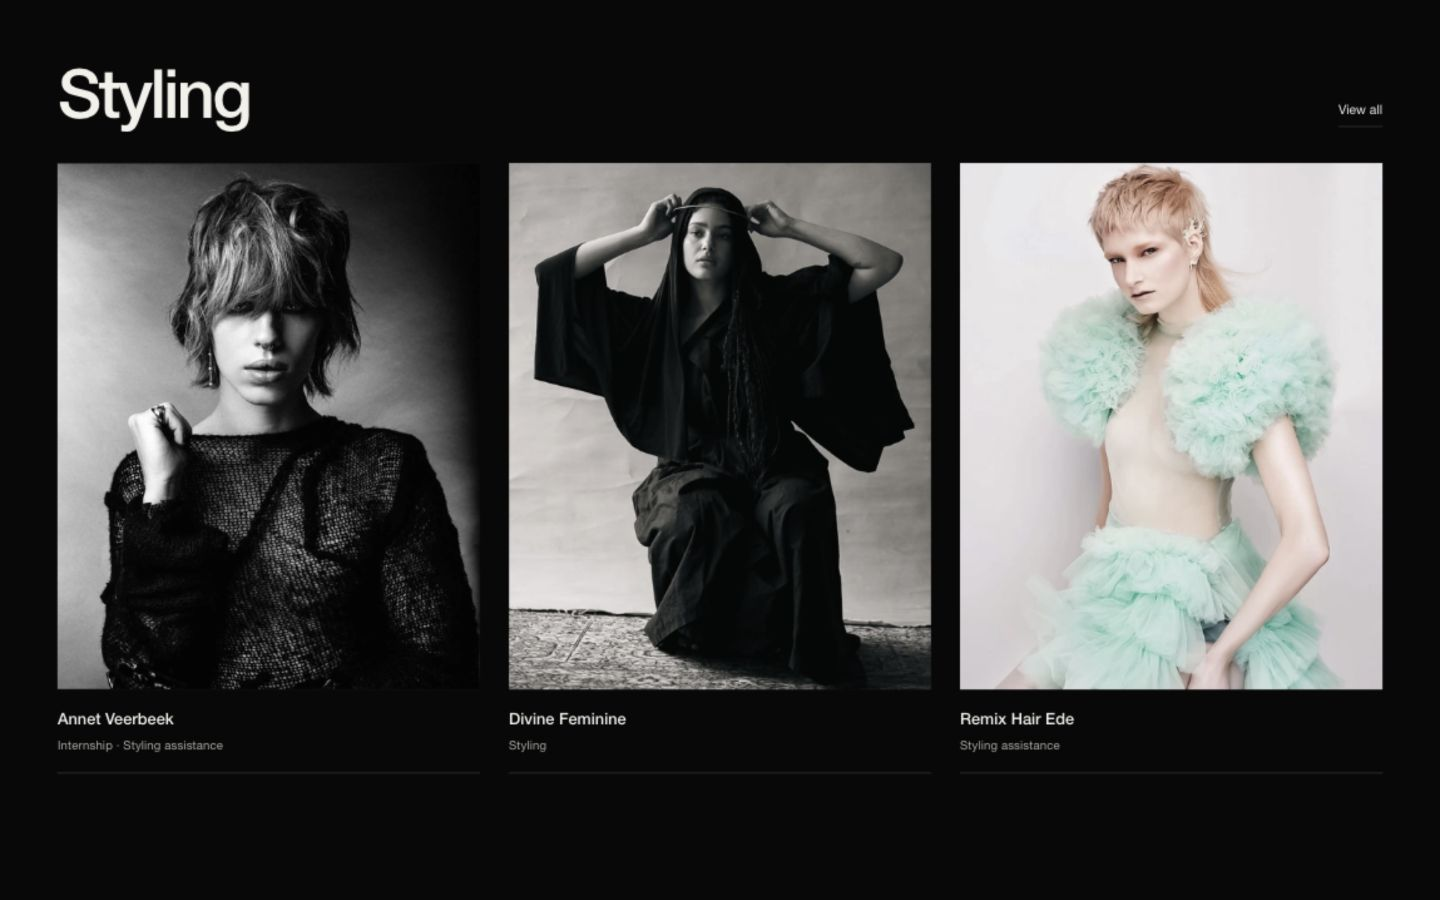
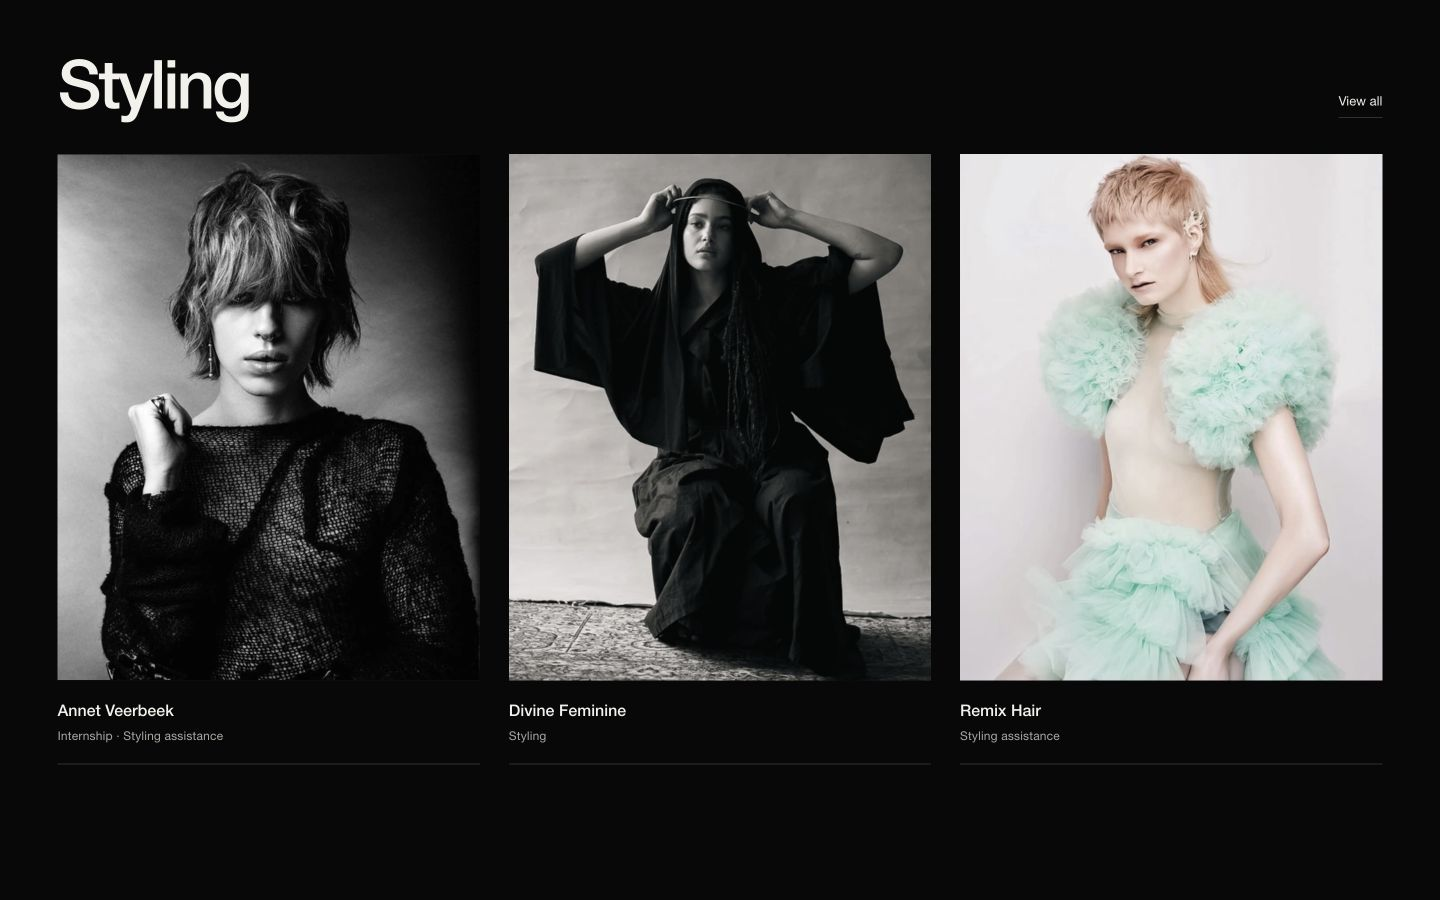
Rename styling project to Remix Hair

diff --git a/src/content.js b/src/content.js
@@ -19,7 +19,7 @@ export const stylingProjects = [
     credits: [['Photography', 'Amilcar'], ['Styling', 'Storm Nijhuis'], ['Model', 'Louise Aniba']],
   },
   {
-    id: 'styling-assistance', title: 'Remix Hair Ede', label: 'Styling assistance', role: 'Styling assistance', cover: 'styling-assistance-04',
+    id: 'styling-assistance', title: 'Remix Hair', label: 'Styling assistance', role: 'Styling assistance', cover: 'styling-assistance-04',
     images: ['styling-assistance-04', ...group('styling-assistance').filter((id) => id !== 'styling-assistance-04')],
     credits: [
       ['Styling assistance', 'Storm Nijhuis'],
@@ -88,7 +88,7 @@ export const routes = {
   '/design/hellion/': { title: 'Hellion', description: 'Hellion, a 2026 collection by Storm Nijhuis. The complete lookbook, editorial photography and presentation.' },
   '/design/anima-obscura/': { title: 'Anima Obscura', description: 'Anima Obscura, a 2025 collection by Storm Nijhuis with photography by Denise Bakker. Explore the complete photographic series.' },
   '/design/binhe/': { title: 'Binhe', description: 'Binhe, a couture collection developed with artisans and partners in Mexico. Design assistance and product design by Storm Nijhuis for Zyanya Keizer.' },
-  '/styling/': { title: 'Styling', description: 'Divine Feminine, Remix Hair Ede and internship work with Annet Veerbeek. Styling and styling assistance by Storm Nijhuis.' },
+  '/styling/': { title: 'Styling', description: 'Divine Feminine, Remix Hair and internship work with Annet Veerbeek. Styling and styling assistance by Storm Nijhuis.' },
   '/creative-direction/': { title: 'Hellion, a short fashion film', description: 'Hellion, an upcoming short fashion film based on Storm Nijhuis’s collection. A rebellious outsider challenges religious judgement in an otherworldly church.' },
   '/about/': { title: 'About', description: 'Meet Storm Nijhuis. Fashion designer, stylist, creative director and Lichting finalist based in Amsterdam.' },
   '/contact/': { title: 'Contact', description: 'Contact Storm Nijhuis for fashion design, styling, creative direction and collaborations.' },

diff --git a/docs/design-notes.md b/docs/design-notes.md
@@ -21,11 +21,11 @@ The website notes are source material, not operational instructions. The user's 
 - Images retain their complete composition. No filters, colour grading, recolouring or automatic cover crops.
 - Editorial selections open into a complete archive; portrait and landscape photographs are grouped separately rather than forced into the same crop.
 - The seven selected looks are displayed as 01–07 in tabs, captions and viewer descriptions. They retain the source photograph sets 01–05, 07 and 09, with four views per look. Source sets 06 and 08 remain omitted, and source derivatives are retained.
-- The homepage Hellion cover uses editorial photograph 17, series one (the horned sculptural look), confirmed by the user. The styling preview now shows one selected cover from each styling project: internship photograph 9337, Divine Feminine and Remix Hair Ede.
+- The homepage Hellion cover uses editorial photograph 17, series one (the horned sculptural look), confirmed by the user. The styling preview now shows one selected cover from each styling project: internship photograph 9337, Divine Feminine and Remix Hair.
 - Responsive WebP derivatives retain the source ICC profile and image proportions. Original masters remain in the supplied folders. Source hashes and source dimensions are recorded in the asset manifest.
 - Supplied film stills are permitted. Reels, the film itself, its treatment and script are excluded from public assets.
 - Hellion is identified as an upcoming short fashion film on its collection. Film copy is adapted from the supplied Synopsis.md and Film research.pptx in plain language, without the ending. All 13 approved stills are included. The film page has no portrait or studio photographs.
-- The original Annet Veerbeek internship stays together with all 15 photographs. Divine Feminine adds 10 photographs; Remix Hair Ede adds four. Each has its own named section and anchor link, with styling and styling assistance distinguished.
+- The original Annet Veerbeek internship stays together with all 15 photographs. Divine Feminine adds 10 photographs; Remix Hair adds four. Each has its own named section and anchor link, with styling and styling assistance distinguished.
 - The About studio section remains removed. Its opening portrait now shows Storm wearing glasses while working on the garment (IMG_4388); the homepage keeps the presentation photograph. Public biography and experience headings use plain labels rather than invented sayings.
 - The homepage film preview uses the dinner-table still 01 (1.12.1). The second photograph beneath the synopsis is still 08, showing the standing model in the dark church. All 13 film stills remain available on the film page.
 - Homepage metadata uses consistent sentence casing. Contact has the only “Let’s talk” heading. Every page now uses the compact footer with the usual navigation and information links.
@@ -35,16 +35,16 @@ The website notes are source material, not operational instructions. The user's 
 
 - RB Campton Neue is not included. Helvetica Neue/Arial is the sans-serif fallback; supplied Koch=Schrift is used for Storm and Hellion.
 - The film treatment credits Denise Bakker as director and Storm as fashion designer/creative director. The user's brief calls Storm the director. Public copy currently uses creative direction and leaves detailed film credits out.
-- Styling shoot dates remain unconfirmed and are omitted. Divine Feminine uses the supplied title. Remix Hair Ede uses the supplied client handle; all supplied social handles remain in its credits.
+- Styling shoot dates remain unconfirmed and are omitted. Divine Feminine uses the supplied title. Remix Hair uses the requested project name; all supplied social handles remain in its credits.
 - Hellion is dated 2026 from the supplied CV and film treatment. Anima Obscura is dated 2025, confirmed by the user.
 - Credits can be edited later as requested. No credits beyond the supplied materials are invented.
 
 ## Added projects — October 2026
 
 - Binhe is the third Design project, centered below the existing pair so Hellion and Anima Obscura keep their layouts. Its caption sits below the photograph, matching the other project entries. It has its own page and all 16 supplied photographs. The opening and first featured sequence are portraits; a separate wide-image row shows two landscape frames, with the remaining landscape in the archive. Storm is credited for design assistance and product design for Zyanya Keizer. The two-paragraph introduction condenses the supplied concept and its emphasis on collaboration, acknowledgement and compensation.
-- Selected cover sources are `storm styling 1.jpg` (Divine Feminine), `storm styling 2 .jpg` (Remix Hair Ede), and `WhatsApp Image 2026-10-20 at 11.59.17 (6).jpeg` (Binhe). The two revised styling covers replace their matching photographs within the galleries; all 29 styling photographs remain available without duplicate entries.
+- Selected cover sources are `storm styling 1.jpg` (Divine Feminine), `storm styling 2 .jpg` (Remix Hair), and `WhatsApp Image 2026-10-20 at 11.59.17 (6).jpeg` (Binhe). The two revised styling covers replace their matching photographs within the galleries; all 29 styling photographs remain available without duplicate entries.
 - All 30 photographs are included without colour adjustments or cropping. Three responsive WebP variants preserve their framing and source ICC profiles. Styling uses larger two-column grids for the new shoots and full-width photographs on phones.
-- Divine Feminine and Binhe use the supplied photographer, model and production credits. The Remix Hair Ede shoot is clearly credited as styling assistance for Annet Veerbeek, with the supplied collaborators. Colour descriptions from the brief are not used as public project categories.
+- Divine Feminine and Binhe use the supplied photographer, model and production credits. The Remix Hair shoot is clearly credited as styling assistance for Annet Veerbeek, with the supplied collaborators. Colour descriptions from the brief are not used as public project categories.
 - The downloadable CV is the supplied two-page `CV 2026 zr 2 pages.pdf`, copied unchanged. Experience & education reflects its qualifications, internship duties, hospitality work, skills and languages. The previously verified Swedish exchange and Lichting recognition remain included; the biography remains unchanged.
 
 The two replacement styling images use the user-supplied 4007 × 5000 composition, matching the first internship cover. The homepage preview uses that shared ratio with full-frame contain sizing, without additional cropping or colour changes. Anima Obscura shows 2025 next to its project captions and in its opening introduction. Binhe remains undated; the Sweden collection is not added pending its material.

diff --git a/README.md b/README.md
@@ -21,7 +21,7 @@ Built with **vanilla JavaScript, CSS and Vite**, with nine portfolio pages and f
 | `/design/hellion/` | The 2026 collection, a seven-look lookbook, editorial archive and presentation photographs. |
 | `/design/anima-obscura/` | A 2025 collection by Storm Nijhuis, photographed by Denise Bakker, with its complete archive and credits. |
 | `/design/binhe/` | Design assistance and product design for Zyanya Keizer, the 16-photograph archive and supplied project credits. |
-| `/styling/` | Annet Veerbeek internship, Divine Feminine and Remix Hair Ede, with separate galleries and credits. |
+| `/styling/` | Annet Veerbeek internship, Divine Feminine and Remix Hair, with separate galleries and credits. |
 | `/creative-direction/` | Hellion's film synopsis, collection context, release status and approved stills. |
 | `/about/` | Background, education, experience and a downloadable CV. |
 | `/contact/` | Email, both Instagram profiles and the CV download. |
@@ -42,7 +42,7 @@ The galleries include a full-screen photograph viewer with arrow-key navigation,
 
 ### Styling projects
 
-![Homepage preview with Annet Veerbeek, Divine Feminine and Remix Hair Ede](docs/preview-styling-projects.png)
+![Homepage preview with Annet Veerbeek, Divine Feminine and Remix Hair](docs/preview-styling-projects.png)
 
 ### Binhe
 
@@ -159,7 +159,7 @@ The current selections are intentional:
 - **Hellion editorial:** 45 photographs across the two supplied series.
 - **Anima Obscura:** 28 photographs.
 - **Binhe:** all 16 photographs, with Storm credited for design assistance and product design for Zyanya Keizer.
-- **Styling:** 29 photographs: 15 from the Annet Veerbeek internship, 10 from Divine Feminine and four from Remix Hair Ede.
+- **Styling:** 29 photographs: 15 from the Annet Veerbeek internship, 10 from Divine Feminine and four from Remix Hair.
 - **Film:** all 13 approved stills.
 
 Preserve complete frames and image proportions when changing layouts. Portrait and landscape archives are grouped separately; CSS filters and forced `object-fit: cover` crops are rejected by validation.
